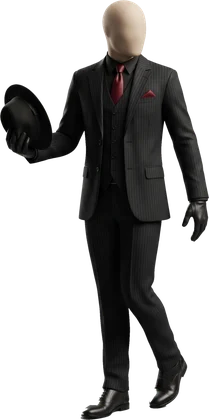
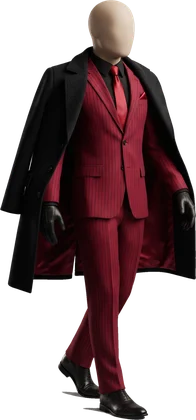
자객 마피아: 새 맵 3장(기차 식당칸·정원·갤러리, 밝게 보정) — 6장이 라운드마다 돌아가요, 변호사 밝은 크림색 정장, 마피아 붉은 정장, 겁쟁이 몸통 (v10.23)
Claude-Session: https://claude.ai/code/session_018kcaK1YQGkv4UBC623yDa1

diff --git a/js/games/assassin.js b/js/games/assassin.js
@@ -20,8 +20,8 @@ function view(pub, sec, me) {
 const esc = (s) => String(s ?? '').replace(/[&<>"']/g, (c) => ({ '&': '&amp;', '<': '&lt;', '>': '&gt;', '"': '&quot;', "'": '&#39;' }[c]));
 
 // ── 직업 몸통 그림 (머리 자리에 프로필 얼굴) ──
-const BODY = {"cover": {"w": 162, "h": 420, "hx": 87, "hy": 28, "hr": 28}, "mafia": {"w": 209, "h": 420, "hx": 124, "hy": 28, "hr": 27}, "police": {"w": 173, "h": 420, "hx": 91, "hy": 30, "hr": 30}, "doctor": {"w": 169, "h": 420, "hx": 91, "hy": 30, "hr": 30}, "detective": {"w": 204, "h": 420, "hx": 88, "hy": 31, "hr": 31}, "lawyer": {"w": 178, "h": 420, "hx": 98, "hy": 30, "hr": 30}, "quick": {"w": 178, "h": 420, "hx": 104, "hy": 29, "hr": 28}, "ma": {"w": 195, "h": 420, "hx": 114, "hy": 28, "hr": 28}, "prophet": {"w": 208, "h": 420, "hx": 105, "hy": 30, "hr": 29}};
-const MAPS = ['mansion', 'alley', 'casino'];
+const BODY = {"cover": {"w": 162, "h": 420, "hx": 87, "hy": 28, "hr": 28}, "mafia": {"w": 196, "h": 420, "hx": 116, "hy": 24, "hr": 24}, "police": {"w": 173, "h": 420, "hx": 91, "hy": 30, "hr": 30}, "doctor": {"w": 169, "h": 420, "hx": 91, "hy": 30, "hr": 30}, "detective": {"w": 204, "h": 420, "hx": 88, "hy": 31, "hr": 31}, "lawyer": {"w": 240, "h": 420, "hx": 154, "hy": 30, "hr": 30}, "ma": {"w": 195, "h": 420, "hx": 114, "hy": 28, "hr": 28}, "prophet": {"w": 208, "h": 420, "hx": 105, "hy": 30, "hr": 29}, "coward": {"w": 163, "h": 420, "hx": 118, "hy": 32, "hr": 32}};
+const MAPS = ['mansion', 'gallery', 'alley', 'garden', 'casino', 'train'];
 export function bodyHtml(key, player) {
   const b = BODY[key] || BODY.cover;
   const hx = (b.hx / b.w) * 100;

diff --git a/js/config.js b/js/config.js
@@ -1,6 +1,6 @@
 // 앱 이름
 export const APP_NAME = 'O게임';
-export const APP_VERSION = 'v10.22';
+export const APP_VERSION = 'v10.23';
 
 // Firebase 설정 — Firebase 콘솔 > 프로젝트 설정 > 내 앱 에서 복사한 값
 // apiKey를 비우면 "테스트 모드"로 동작합니다
